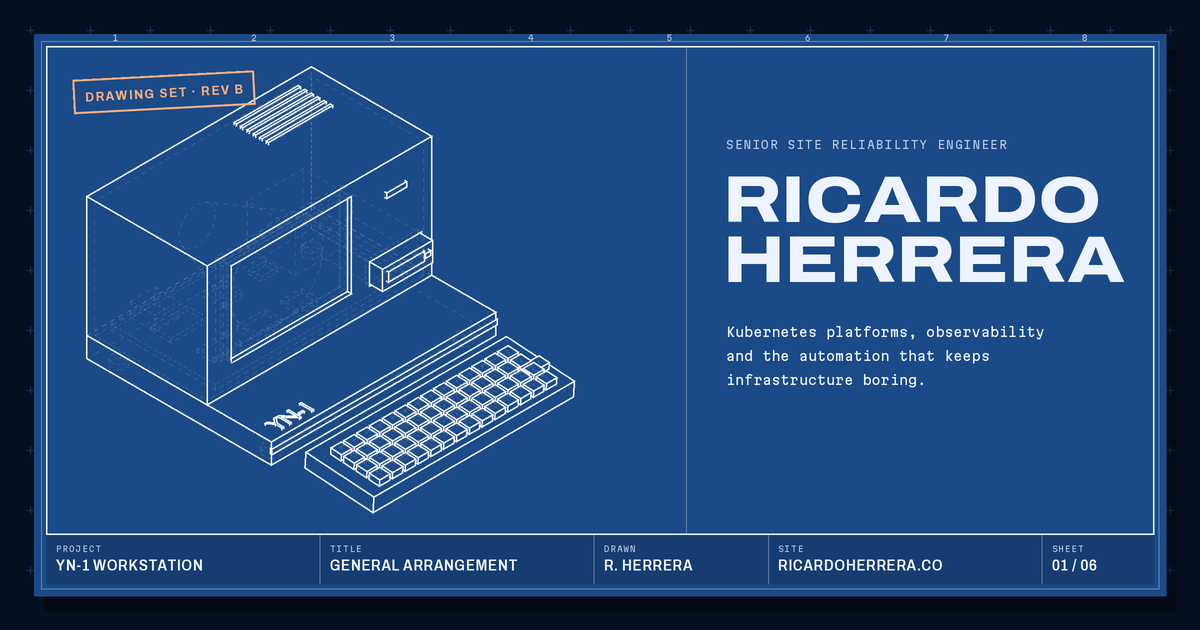
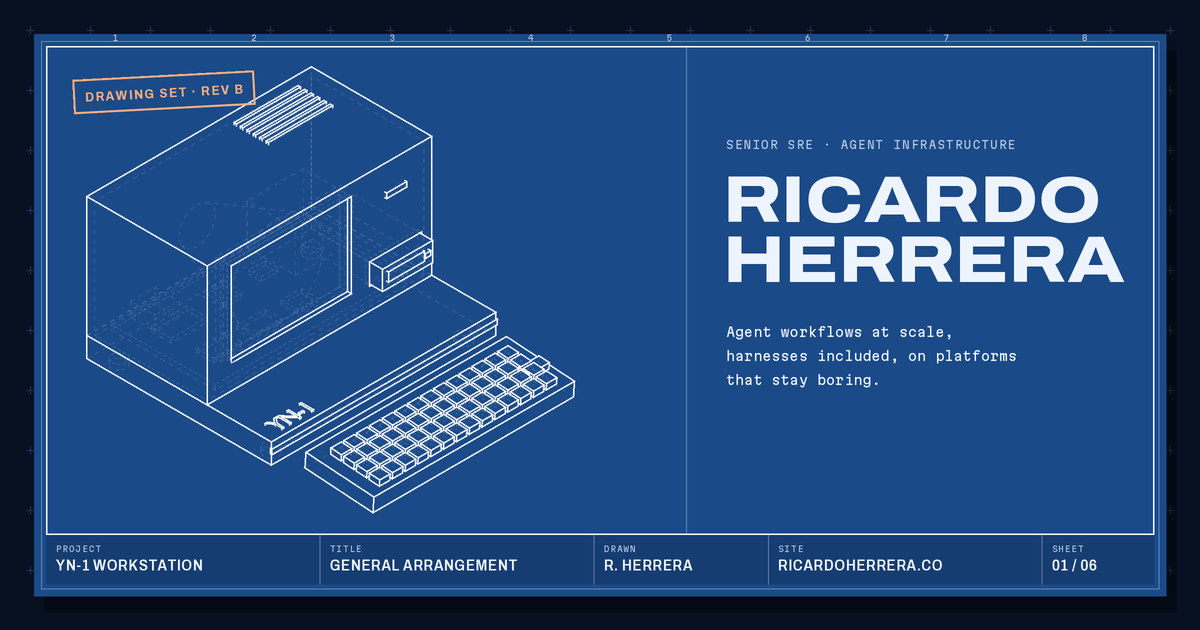
Homepage: position as agent infrastructure (agent workflows at scale, harnesses)
Update role line, hero, About notes, Work parts list, terminal (whoami,
about.txt, git log), contact prompt, meta/OG/JSON-LD and the social card.

Claude-Session: https://claude.ai/code/session_01QSRb4Lh32A6paPUT55EzFC

Changed region(s): [[0.5858, 0.5127, 0.8633, 0.6333], [0.6475, 0.2111, 0.8325, 0.2413], [0.6167, 0.6032, 0.6783, 0.6333]]

diff --git a/site/index.html b/site/index.html
@@ -3,8 +3,8 @@
 <head>
 <meta charset="utf-8">
 <meta name="viewport" content="width=device-width,initial-scale=1,viewport-fit=cover">
-<title>Ricardo Herrera · Senior Site Reliability Engineer</title>
-<meta name="description" content="Ricardo Herrera is a senior site reliability engineer who builds Kubernetes platforms, observability and the automation that keeps infrastructure boring. Work, writing and contact.">
+<title>Ricardo Herrera · Senior SRE, agent infrastructure</title>
+<meta name="description" content="Ricardo Herrera is a senior site reliability engineer building agent workflows at scale: the harnesses, tools and guardrails that let AI agents do real production work, on Kubernetes platforms that stay boring. Work, writing and contact.">
 <meta name="author" content="Ricardo Herrera">
 <link rel="canonical" href="https://ricardoherrera.co/">
 <meta name="theme-color" content="#061020">
@@ -17,18 +17,18 @@
 <meta property="og:type" content="website">
 <meta property="og:site_name" content="Ricardo Herrera">
 <meta property="og:url" content="https://ricardoherrera.co/">
-<meta property="og:title" content="Ricardo Herrera · Senior Site Reliability Engineer">
-<meta property="og:description" content="Senior SRE. Kubernetes platforms, observability and the automation that keeps infrastructure boring.">
+<meta property="og:title" content="Ricardo Herrera · Senior SRE, agent infrastructure">
+<meta property="og:description" content="Senior SRE building agent workflows at scale: harnesses, tools and guardrails for AI agents in production. Plus Kubernetes platforms and observability.">
 <meta property="og:image" content="https://ricardoherrera.co/og.png">
 <meta property="og:image:width" content="1200">
 <meta property="og:image:height" content="630">
-<meta property="og:image:alt" content="Blueprint drawing of the YN-1 workstation beside the name Ricardo Herrera, senior site reliability engineer">
+<meta property="og:image:alt" content="Blueprint drawing of the YN-1 workstation beside the name Ricardo Herrera, senior SRE, agent infrastructure">
 <meta property="og:locale" content="en_US">
 <meta name="twitter:card" content="summary_large_image">
-<meta name="twitter:title" content="Ricardo Herrera · Senior Site Reliability Engineer">
-<meta name="twitter:description" content="Senior SRE. Kubernetes platforms, observability and the automation that keeps infrastructure boring.">
+<meta name="twitter:title" content="Ricardo Herrera · Senior SRE, agent infrastructure">
+<meta name="twitter:description" content="Senior SRE building agent workflows at scale: harnesses, tools and guardrails for AI agents in production. Plus Kubernetes platforms and observability.">
 <meta name="twitter:image" content="https://ricardoherrera.co/og.png">
-<meta name="twitter:image:alt" content="Blueprint drawing of the YN-1 workstation beside the name Ricardo Herrera, senior site reliability engineer">
+<meta name="twitter:image:alt" content="Blueprint drawing of the YN-1 workstation beside the name Ricardo Herrera, senior SRE, agent infrastructure">
 <meta name="twitter:creator" content="@rickhlx">
 
 <script type="application/ld+json">
@@ -42,7 +42,7 @@
   "email": "mailto:ricardo@ricardoherrera.co",
   "worksFor": [{ "@type": "Organization", "name": "Radar", "url": "https://radar.com/" }, { "@type": "Organization", "name": "Glamer" }],
   "sameAs": ["https://www.linkedin.com/in/ricardohe/", "https://x.com/rickhlx", "https://github.com/rickhlx"],
-  "knowsAbout": ["Site reliability engineering", "Kubernetes", "Observability", "Terraform", "Go", "AWS"]
+  "knowsAbout": ["AI agents", "Agent harnesses", "Agent evaluation", "Model Context Protocol", "Site reliability engineering", "Kubernetes", "Observability", "Terraform", "Go", "AWS"]
 }
 </script>
 
@@ -486,7 +486,7 @@ body[data-boot] .ctrl .hint { display: none; }
       <div class="side">
         <div class="ident">
           <div>
-            <p class="role">Senior site reliability engineer</p>
+            <p class="role">Senior SRE · Agent infrastructure</p>
             <h1 class="name">Ricardo Herrera</h1>
           </div>
           <figure class="print">
@@ -495,7 +495,7 @@ body[data-boot] .ctrl .hint { display: none; }
             <figcaption>Fig. 0 · Operator</figcaption>
           </figure>
         </div>
-        <p>I build infrastructure that stays up and stays boring: Kubernetes platforms, observability, and the automation that lets other engineers ship on their own. This drawing set takes the whole operation apart, one sheet at a time.</p>
+        <p>I build agent workflows at scale: the harnesses, tools and guardrails that let AI agents do real production work, on infrastructure that stays up and stays boring. Underneath: Kubernetes platforms, observability, and the automation that lets other engineers ship on their own. This drawing set takes the whole operation apart, one sheet at a time.</p>
         <div>
           <h3>Drawing register</h3>
           <table class="grid">
@@ -570,8 +570,8 @@ body[data-boot] .ctrl .hint { display: none; }
           <h3>General notes</h3>
           <ol>
             <li>Site reliability engineer with 10+ years in infrastructure, from a colo rack of ESXi hosts to multi-cluster Kubernetes on AWS.</li>
-            <li>Now: senior SRE at Radar since January 2026, and co-founder of Glamer. Happiest building self-service platforms and making on-call quiet.</li>
-            <li>Everything in Git. Self-service over tickets, SLOs over gut feel, runbooks that run themselves. Mostly Go, Terraform and FluxCD.</li>
+            <li>Now: senior SRE at Radar since January 2026, building agent workflows at scale: harnesses, skills, MCP tools and evals, so agents can triage, investigate and ship alongside engineers. Also co-founder of Glamer.</li>
+            <li>Everything in Git. Self-service over tickets, SLOs over gut feel, runbooks that run themselves, now with an agent at the keyboard. Mostly Go, Terraform and FluxCD.</li>
             <li>Off duty: street photography on a Fujifilm X100F, mostly at night. See fig. 2-C, or <a href="#viewfinder">look through the loupe</a> at the contact sheet beside the keyboard.</li>
             <li>All dimensions in millimetres. Do not scale from drawing.</li>
           </ol>
@@ -615,7 +615,7 @@ body[data-boot] .ctrl .hint { display: none; }
           <table class="grid">
             <tr><th>Item</th><th>Part</th><th>Project</th></tr>
             <tr><td class="n">1</td><td>Enclosure</td><td><b>Kubernetes platform</b><br>Multi-tenant platform at Watchtower: 10 clusters, 140 nodes, self-service, 99.99% available.</td></tr>
-            <tr><td class="n">2</td><td>Logic board</td><td><a href="https://github.com/zalando/skipper" target="_blank" rel="noopener">Skipper</a><br>Open-source Go ingress controller. Added dynamic TLS secret handling.</td></tr>
+            <tr><td class="n">2</td><td>Logic board</td><td><b>Agent harnesses</b><br>Agent workflows at scale at Radar: harnesses, tool access and guardrails, with evals before an agent touches production.</td></tr>
             <tr><td class="n">3</td><td>Display</td><td><b>Observability stack</b><br>Prometheus, Grafana, Loki and Thanos, federated across clusters with five years of history.</td></tr>
             <tr><td class="n">4</td><td>Tape drive</td><td><b>Database platforms</b><br>Redis, PostgreSQL and Elasticsearch on operators, with failover and backups built in.</td></tr>
             <tr><td class="n">5</td><td>Chassis</td><td><b>AWS migration</b><br>G&amp;G Outfitters off Expedient onto EKS: 60%+ cheaper, 5x the traffic, zero-downtime cutover.</td></tr>
@@ -740,7 +740,7 @@ body[data-boot] .ctrl .hint { display: none; }
             <tr><td class="n">J5</td><td><a href="resume.pdf" download="Ricardo-Herrera-Resume.pdf">Resume (PDF)</a></td></tr>
           </table>
         </div>
-        <p>Write about platform and reliability work, infrastructure for early-stage teams, or a good postmortem story.</p>
+        <p>Write about agent harnesses, platform and reliability work, infrastructure for early-stage teams, or a good postmortem story.</p>
       </div>
     </div>
     <div class="titleblock">
@@ -1598,7 +1598,7 @@ gl.domElement.addEventListener("pointerup", (e) => {
 // ---------- the terminal
 const termOut = $("termOut"), termIn = $("termIn");
 const LOG = [
-  { sha: "c4e1b7a", date: "2026.01", end: "now", ref: "HEAD -> main", msg: "senior SRE @ Radar", body: "Site reliability for Radar, the location platform.\nJoined January 2026." },
+  { sha: "c4e1b7a", date: "2026.01", end: "now", ref: "HEAD -> main", msg: "senior SRE, agent infrastructure @ Radar", body: "Site reliability for Radar, the location platform.\nBuilding agent workflows at scale: harnesses, skills,\nMCP tools and evals for agents doing production work.\nJoined January 2026." },
   { sha: "f2c71a0", date: "2024", end: "now", ref: "glamer", msg: "co-founder, infra lead @ Glamer", body: "Peer-to-peer marketplace, built from zero to launch.\nNext.js and a Go REST API on PostgreSQL and Redis.\nShips on Railway through GitHub Actions." },
   { sha: "9e4b1d7", date: "2022.04", end: "2025.12", msg: "senior SRE (contract) @ G&G Outfitters", body: "Moved production from Expedient to AWS EKS; infra cost down 60%+.\nKarpenter on spot, FluxCD GitOps, 99.99% uptime through 5x traffic.\nMongoDB to Atlas with a zero-downtime cutover." },
   { sha: "a3f9c21", date: "2018.09", end: "2025.12", msg: "senior SRE @ Watchtower", body: "Multi-tenant Kubernetes: 10 clusters, 140 nodes, Cluster API, 99.99%.\nPrometheus, Grafana, Loki and Thanos with 5-year retention.\nTerraform + Ansible took VM provisioning from weeks to under an hour.\nTech lead for infra modernization since 2020; MTTR down 30%." },
@@ -1758,7 +1758,7 @@ function bootTerm() {
   out({ cls: "head", text: "YN-1 MONITOR  v1.0" });
   out({ cls: "dim", text: "64K RAM OK · TAPE OK · DISPLAY OK" });
   out("");
-  out(["Hello. This is the computer of ", { cls: "head", text: "Ricardo Herrera" }, ", site reliability engineer."]);
+  out(["Hello. This is the computer of ", { cls: "head", text: "Ricardo Herrera" }, ", site reliability engineer building agent infrastructure."]);
   out(["Try ", { run: "help", text: "help" }, ", ", { run: "whoami", text: "whoami" }, ", ", { run: "git log", text: "git log" }, " or ", { run: "ls writing", text: "ls writing" }, "."]);
   out("");
 }
@@ -1789,7 +1789,7 @@ function exec(raw) {
     case "whoami":
       out({ node: crtFace() });
       out({ cls: "head", text: "Ricardo Herrera" });
-      out("Senior SRE. I build Kubernetes platforms, observability and the automation that keeps them boring.");
+      out("Senior SRE. I build agent workflows at scale, harnesses included, on Kubernetes platforms that stay boring.");
       out(["More on sheet 02: ", { go: "about", text: "open about" }]);
       break;
     case "ls": {
@@ -1807,7 +1807,7 @@ function exec(raw) {
     case "cat": {
       const f = arg.replace(/^\.\//, "");
       const m = f.match(/^writing\/(\d+)$/);
-      if (f === "about.txt") { out("Site reliability engineer, 10+ years in infrastructure."); out("Now: senior SRE at Radar (since January 2026) and co-founder of Glamer."); out("Go, Terraform, FluxCD. Self-service over tickets."); }
+      if (f === "about.txt") { out("Site reliability engineer, 10+ years in infrastructure."); out("Now: senior SRE at Radar (since January 2026), building agent workflows at scale."); out("Harnesses, skills, MCP tools, evals. Co-founder of Glamer."); out("Go, Terraform, FluxCD. Self-service over tickets."); }
       else if (LOCKED[f] && !LOCKED[f].open) { out({ cls: "err", text: `cat: ${f}: permission denied (locked)` }); out(["try ", { run: `unlock ${f}`, text: `unlock ${f}` }]); }
       else if (f === "do-not-open.txt") printLog();
       else if (f === "contact.txt") { out(["email     ", { href: "mailto:ricardo@ricardoherrera.co", text: "ricardo@ricardoherrera.co" }]); out(["linkedin  ", { href: "https://www.linkedin.com/in/ricardohe/", text: "linkedin.com/in/ricardohe" }]); out(["x         ", { href: "https://x.com/rickhlx", text: "x.com/rickhlx" }]); out(["github    ", { href: "https://github.com/rickhlx", text: "github.com/rickhlx" }]); out(["resume    ", { href: "resume.pdf", text: "resume.pdf" }]); }

diff --git a/make_assets.py b/make_assets.py
@@ -105,12 +105,12 @@ def og():
     dx = bx0 + 640 * SC
     d.line([(dx, by0), (dx, ty)], fill=HAIR, width=SC)
     rx = dx + 40 * SC
-    spaced(d, (rx, by0 + 92 * SC), "SENIOR SITE RELIABILITY ENGINEER", mono(11 * SC), INK_DIM, 0.1)
+    spaced(d, (rx, by0 + 92 * SC), "SENIOR SRE · AGENT INFRASTRUCTURE", mono(11 * SC), INK_DIM, 0.1)
     name = archivo(66 * SC, 800, 118)
     spaced(d, (rx - 3 * SC, by0 + 118 * SC), "RICARDO", name, INK, 0.0)
     spaced(d, (rx - 3 * SC, by0 + 178 * SC), "HERRERA", name, INK, 0.0)
     body = mono(13 * SC)
-    lines = ["Kubernetes platforms, observability", "and the automation that keeps", "infrastructure boring."]
+    lines = ["Agent workflows at scale,", "harnesses included, on platforms", "that stay boring."]
     for i, ln in enumerate(lines):
         d.text((rx, by0 + 278 * SC + i * 24 * SC), ln, font=body, fill=INK)
 
